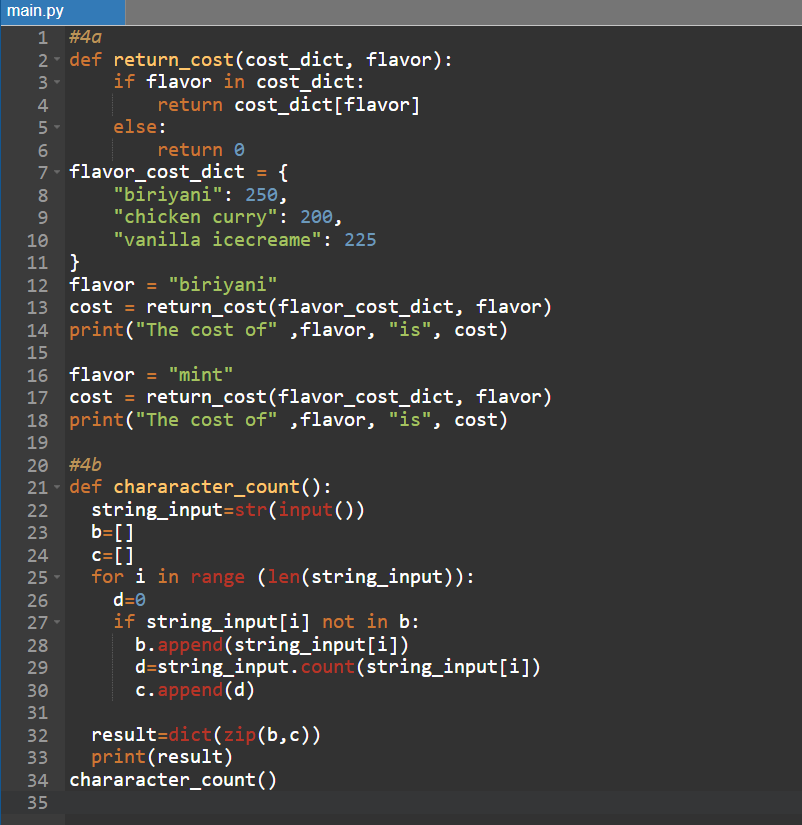
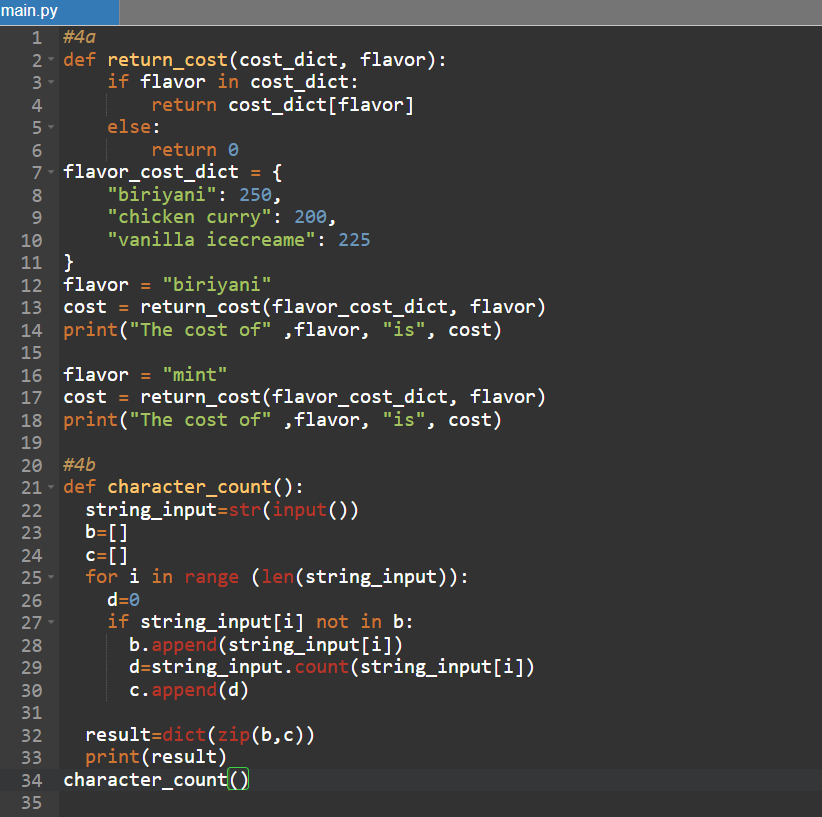
Add files via upload

Changed region(s): [[0.0, 0.0, 0.6858, 1.0], [0.1247, 0.0, 0.1559, 0.0306]]

diff --git a/expt4/main.py b/expt4/main.py
@@ -12,12 +12,13 @@ flavor_cost_dict = {
 flavor = "biriyani"
 cost = return_cost(flavor_cost_dict, flavor)
 print("The cost of" ,flavor, "is", cost)
+
 flavor = "mint"
 cost = return_cost(flavor_cost_dict, flavor)
 print("The cost of" ,flavor, "is", cost)
 
 #4b
-def chararacter_count():
+def character_count():
   string_input=str(input())
   b=[]
   c=[]
@@ -30,4 +31,4 @@ def chararacter_count():
 
   result=dict(zip(b,c))
   print(result)
-chararacter_count()
+character_count()
